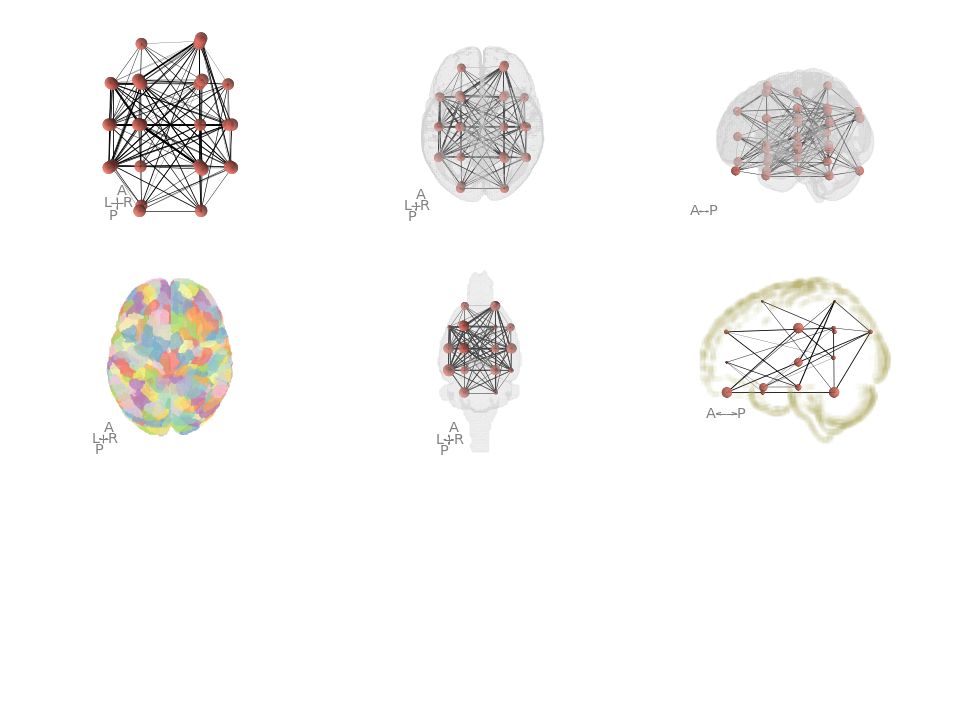
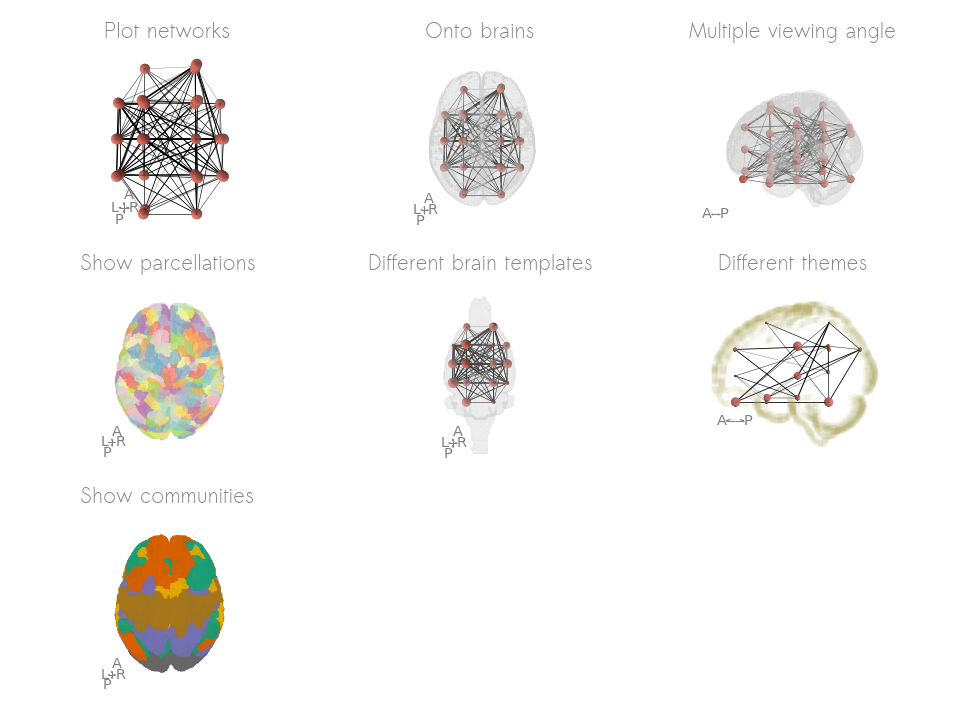
nodecolorby integration with parcels

diff --git a/examples/showcase_image.py b/examples/showcase_image.py
@@ -4,6 +4,7 @@ import numpy as np
 import netplotbrain
 import pandas as pd
 import matplotlib.pyplot as plt
+import templateflow.api as tf
 
 nodes = pd.read_csv('./examples/example_nodes.tsv', sep='\t', index_col=0)
 edges = pd.read_csv('./examples/example_edges.tsv', sep='\t', index_col=0)
@@ -20,6 +21,7 @@ netplotbrain.plot(nodes=nodes,
                   nodetype='spheres',
                   nodealpha=0.5,
                   nodecolor='Salmon',
+                  title='Plot networks',
                   fig=fig, ax=ax)
 
 ax = fig.add_subplot(332, projection='3d')
@@ -32,6 +34,7 @@ netplotbrain.plot(nodes=nodes,
                   nodetype='spheres',
                   nodealpha=0.5,
                   nodecolor='Salmon',
+                  title='Onto brains',
                   fig=fig, ax=ax)
 
 
@@ -45,6 +48,7 @@ netplotbrain.plot(nodes=nodes,
                   nodetype='spheres',
                   nodealpha=0.5,
                   nodecolor='Salmon',
+                  title='Multiple viewing angle',
                   fig=fig, ax=ax)
 
 
@@ -59,6 +63,7 @@ netplotbrain.plot(nodeimg={'atlas': 'Schaefer2018',
                   template='MNI152NLin2009cAsym',
                   templatestyle=None,
                   view=['S'],
+                  title='Show parcellations',
                   nodetype='parcels',
                   nodealpha=0.5,
                   nodecolor='Set3',
@@ -71,6 +76,7 @@ netplotbrain.plot(template='WHS',
                   view='S',
                   nodes=nodes / 8,
                   nodesize='centrality_measure1',
+                  title='Different brain templates',
                   edges=edges,
                   nodescale=80,
                   templatevoxsize=0.2,
@@ -90,7 +96,34 @@ netplotbrain.plot(template='MNI152NLin2009cAsym',
                   templatevoxsize=2,
                   templatealpha=0.025,
                   templatecolor='darkkhaki',
+                  title='Different themes',
                   fig=fig, ax=ax)
+
+ax = fig.add_subplot(337, projection='3d')
+atlasinfo = tf.get(template='MNI152NLin2009cAsym',
+       atlas='Schaefer2018',
+       desc='400Parcels7Networks',
+       extension='.tsv')
+atlasinfo = pd.read_csv(atlasinfo, sep='\t')
+# Parse the info in to get network names
+networks = list(map(lambda x: x.split('_')[2], atlasinfo.name.values))
+atlasinfo['yeo7networks'] = networks
+
+
+netplotbrain.plot(nodes=atlasinfo,
+                  nodeimg={'atlas': 'Schaefer2018',
+                           'desc': '400Parcels7Networks',
+                           'resolution': 1},
+                  template='MNI152NLin2009cAsym',
+                  templatestyle=None,
+                  view=['S'],
+                  nodetype='parcels',
+                  nodealpha=1,
+                  nodecmap='Dark2',
+                  nodecolorby='yeo7networks',
+                  fig=fig, ax=ax,
+                  title='Show communities')
 
 
 fig.savefig('./examples/figures/showcase.png', dpi=150)
+

diff --git a/netplotbrain/plotting/plot_parcels.py b/netplotbrain/plotting/plot_parcels.py
@@ -77,7 +77,6 @@ def _get_nodes_from_nii(img, nodes=None, voxsize=None, template=None):
 
 
 def _plot_parcels(ax, img, alpha, cmap='Set2', parcel_surface_resolution=1, hemisphere='both'):
-    # Get data
     # Due to only being able to get data once, this leads to problems when LR hemi are specieid
     data = img.get_fdata(caching='unchanged').copy()
     # If single hemisphere, get only that side
@@ -87,8 +86,12 @@ def _plot_parcels(ax, img, alpha, cmap='Set2', parcel_surface_resolution=1, hemi
     if 0 in nodelabels:
         nodelabels = nodelabels[1:]
     # Create a nnode length (or longer) array which repeats colormap
-    colors = cm.get_cmap(cmap).colors
-    colors = colors * int(np.ceil(len(nodelabels) / len(colors)))
+    if isinstance(cmap, str):
+        colors = cm.get_cmap(cmap).colors
+        colors = colors * int(np.ceil(len(nodelabels) / len(colors)))
+    else:
+        # If colors has already been defined prior to calling this function
+        colors = cmap
     # loop through each node and plot verticies as different color
     # Possible improvement: could be made without for loop
     # And vals is used to plot color

diff --git a/netplotbrain/plot.py b/netplotbrain/plot.py
@@ -140,7 +140,7 @@ def plot(nodes=None, fig=None, ax=None, view='L', frames=1, edges=None, template
     # Load the nifti node file
     if nodeimg is not None:
         nodes, nodeimg = _get_nodes_from_nii(
-            nodeimg, voxsize=templatevoxsize, template=template)
+            nodeimg, voxsize=templatevoxsize, template=template, nodes=nodes)
     # Set nodecolor to colorby argument
     if nodecolorby is not None:
         nodecolor = _get_colorby_colors(nodes, nodecolorby, nodecmap)
